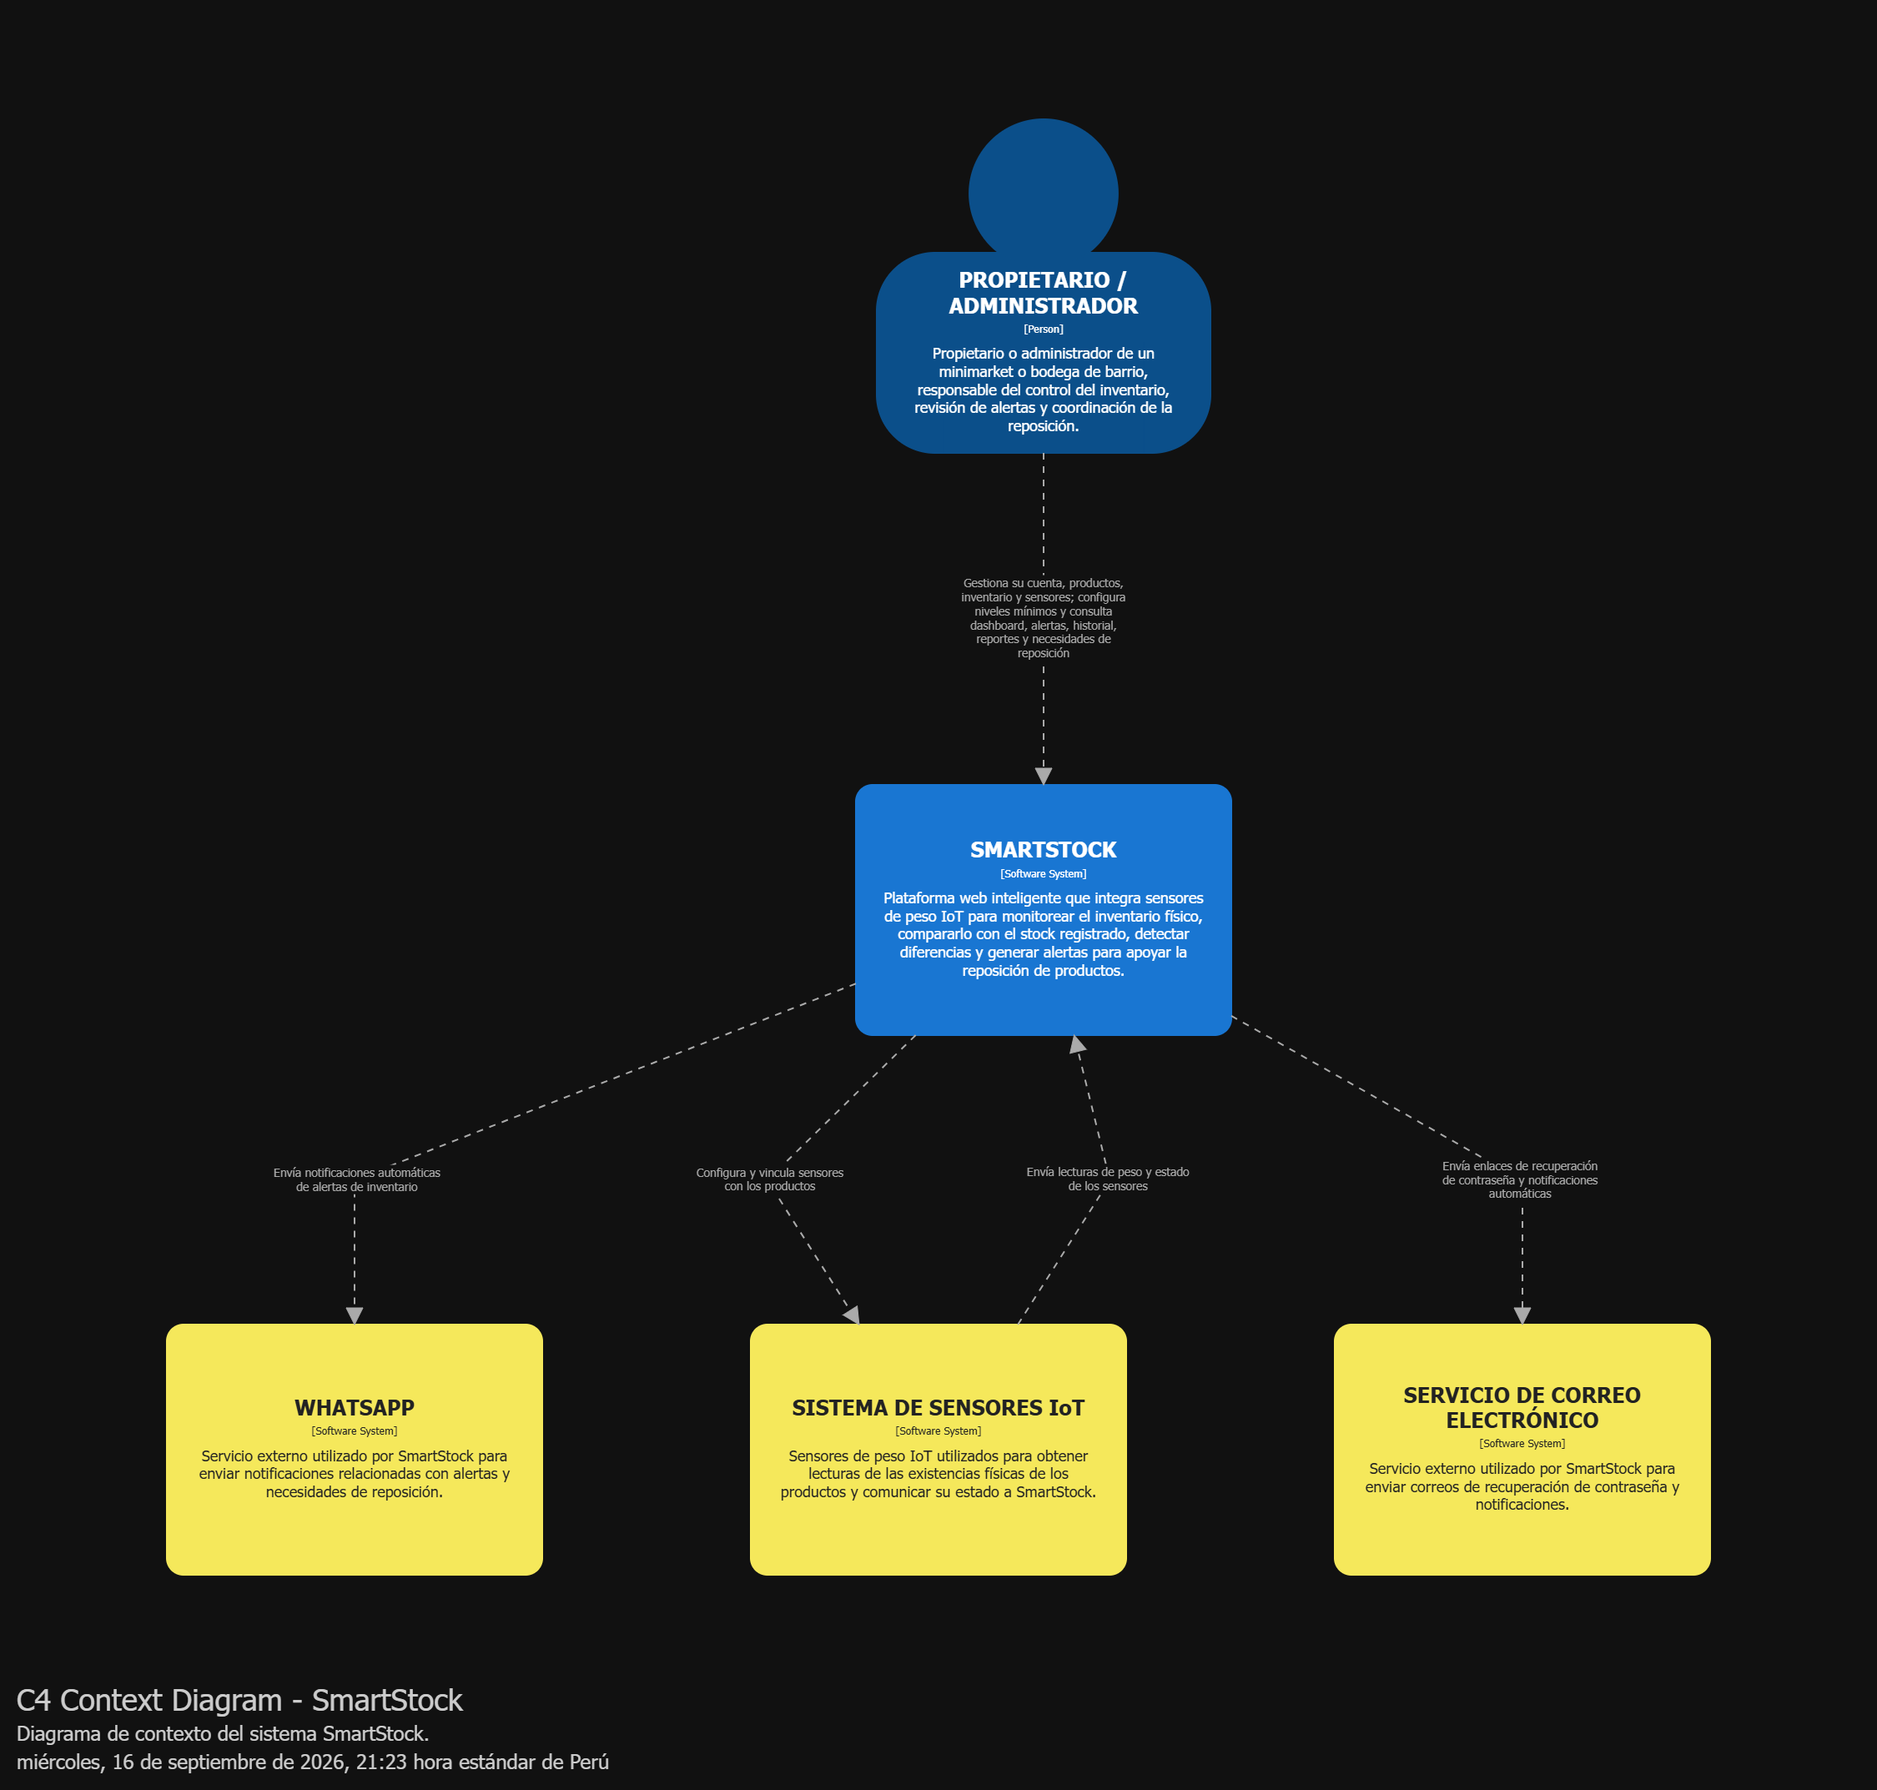
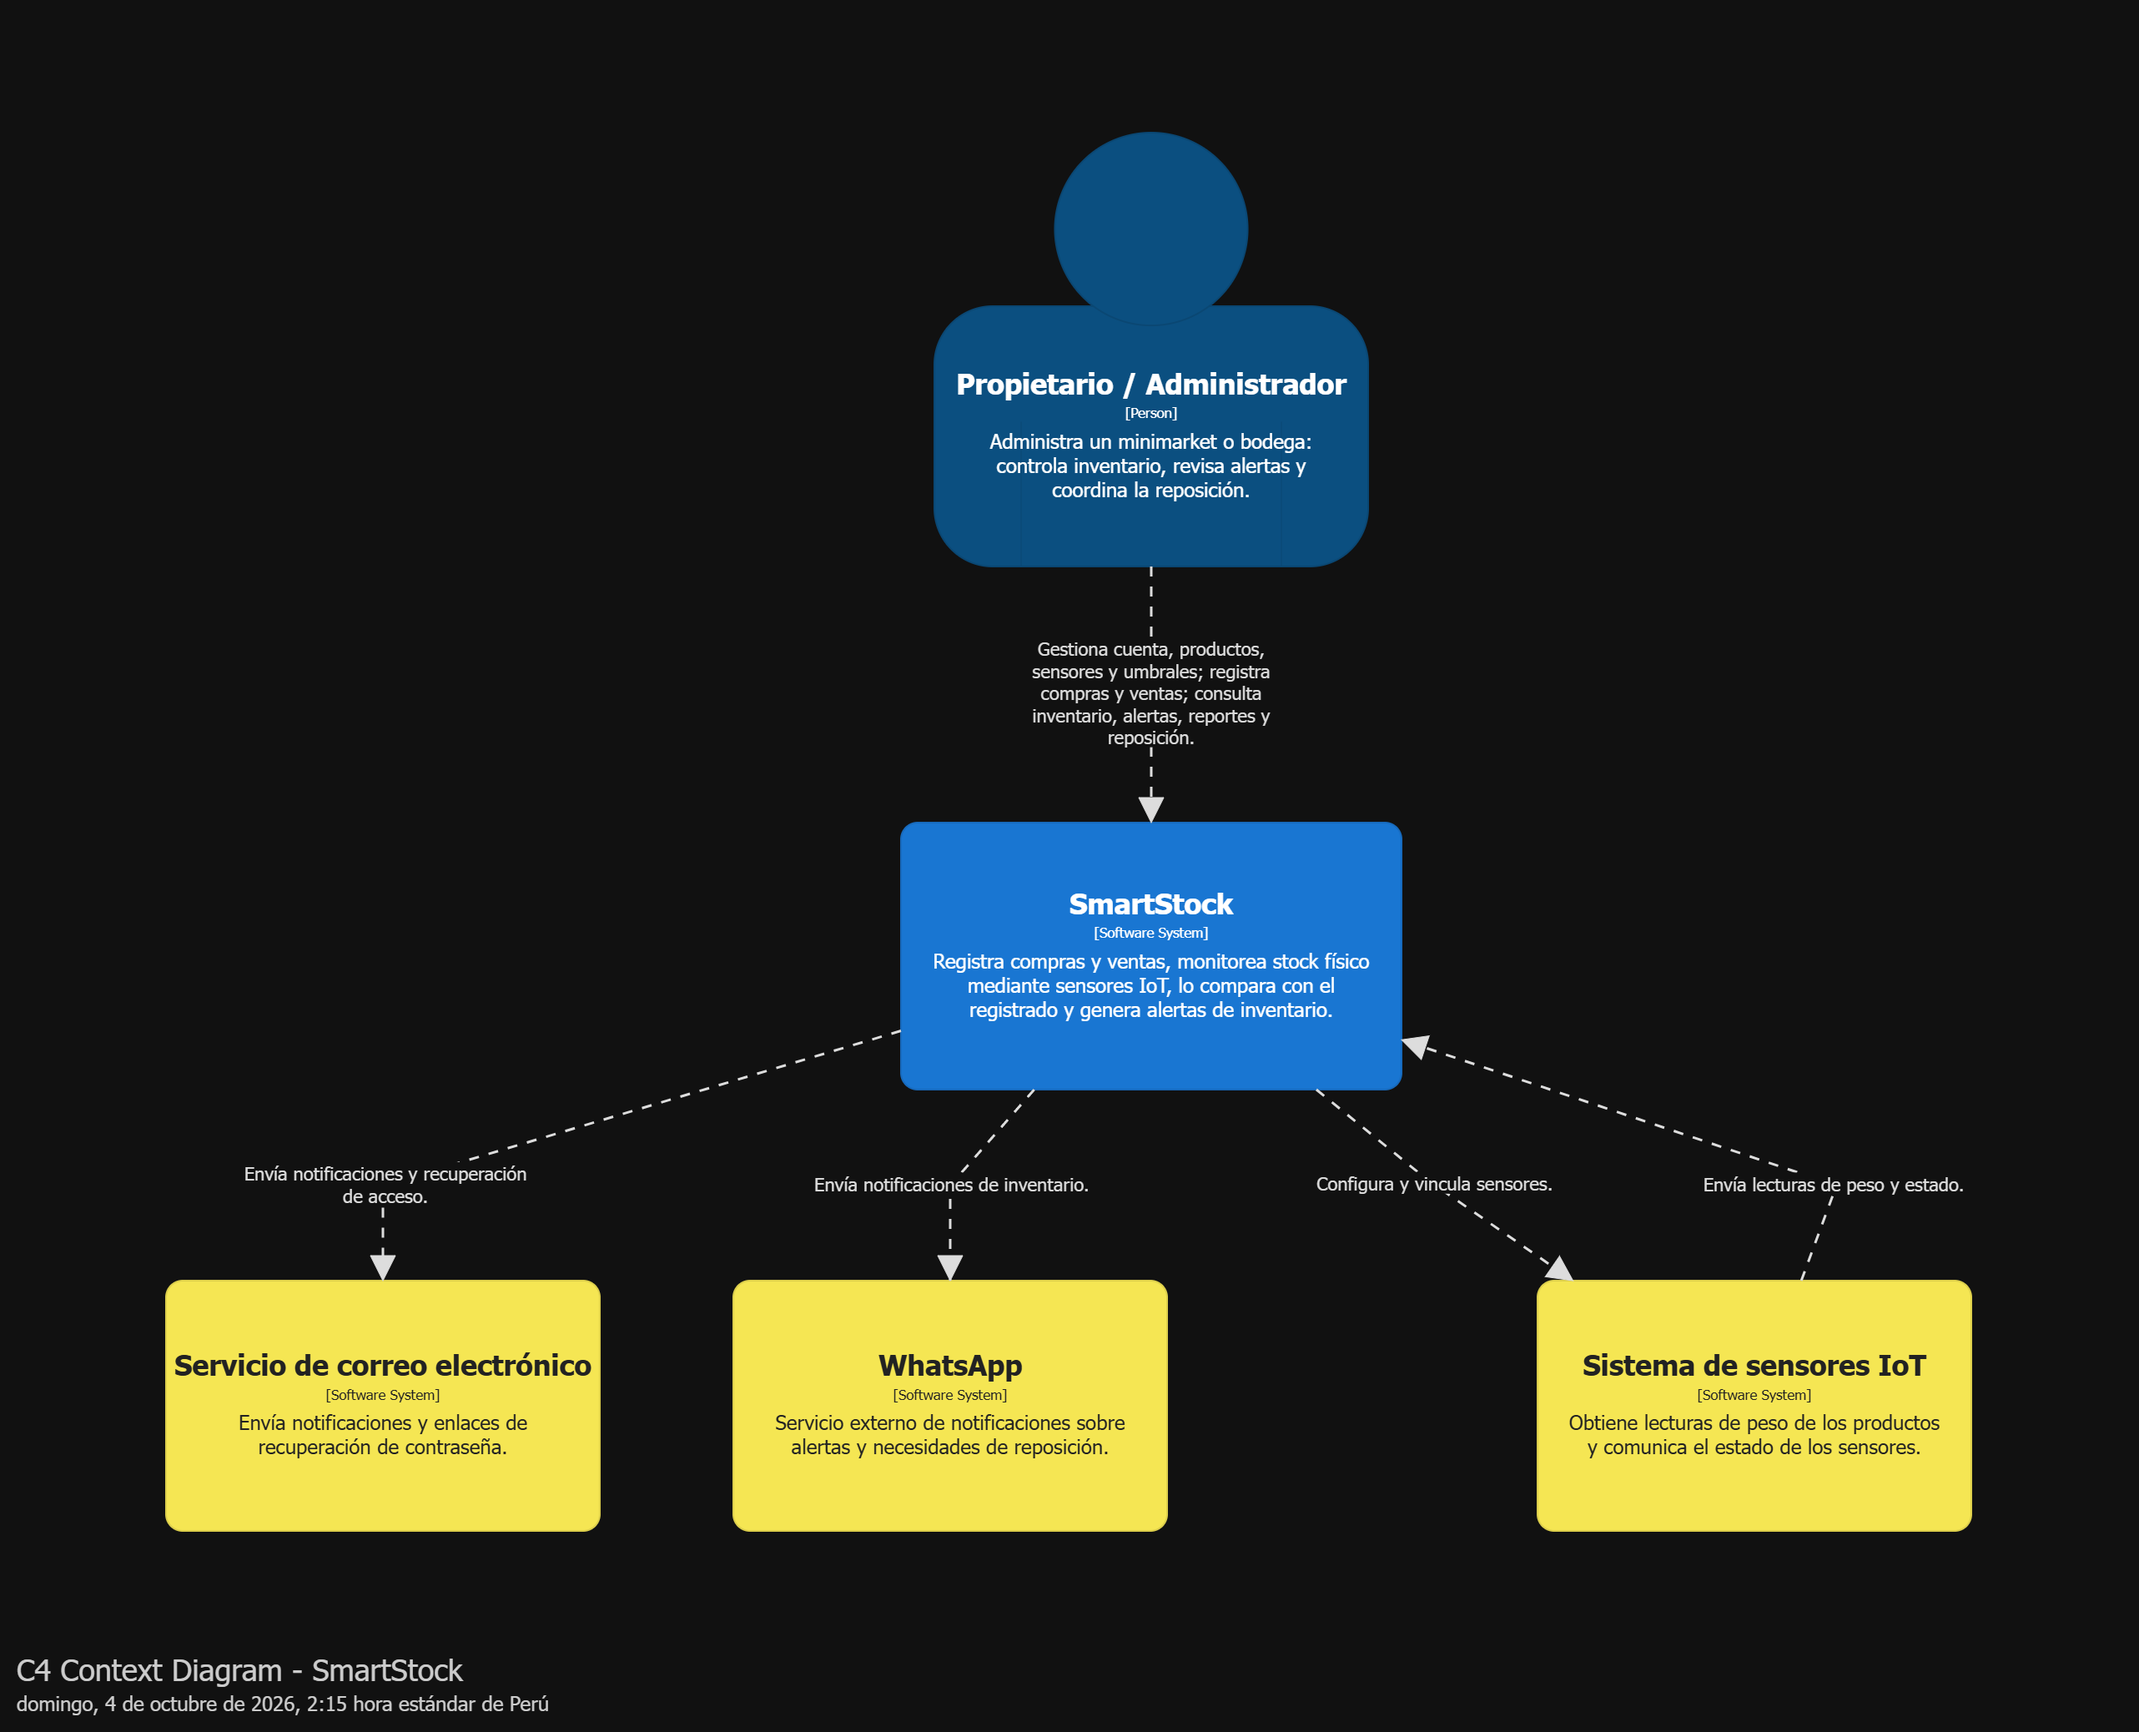
docs(architecture): update c4 context and container diagrams

diff --git a/docs/08-chapter-4.md b/docs/08-chapter-4.md
@@ -835,11 +835,17 @@ https://miro.com/welcomeonboard/WXlEQy9hRngvZnRPQkVlR3pJMDN5M25TTmpLSUY1Rk1kckJO
 
 ### 4.6.2. Software Architecture Context Diagram
 
+El diagrama de contexto presenta la relación del propietario o administrador con SmartStock para gestionar el inventario, registrar compras y ventas y consultar alertas y reportes. También muestra la integración con los sensores IoT, que envían lecturas de peso y estado, y con los servicios externos de WhatsApp y correo electrónico para las notificaciones.
+
 ![C4 Context Diagram](../assets/chapter-4/c4contextdiagram.png)
 
 **Figura 68. C4 Context Diagram.**
 
 ### 4.6.3. Software Architecture Container Diagrams
+
+SmartStock adopta una arquitectura de monolito modular: una sola aplicación backend en Spring Boot, organizada en seis módulos correspondientes a los bounded contexts. Esta decisión separa las responsabilidades del dominio y permite un único despliegue del backend, reduciendo la complejidad para el alcance del proyecto. La Landing Page presenta el producto y dirige al frontend Angular, que consulta la API para realizar las operaciones del negocio. El backend ejecuta las reglas y persiste la información mediante Spring Data JPA en MySQL.
+
+Angular permite organizar la interfaz por contexto y reutilizar componentes; Spring Boot facilita la implementación de los servicios web y Spring Data JPA el acceso a los datos. Los sensores IoT envían lecturas de peso y estado al backend para verificar el inventario físico. Las ventas descuentan el stock registrado y las compras lo aumentan al confirmar su recepción, dejando movimientos de inventario. El backend solicita las notificaciones a los servicios externos de correo electrónico y WhatsApp. Este diagrama representa la arquitectura prevista para el backend real del Sprint 3; en el Sprint 2, el frontend utiliza una Fake API.
 
 ![C4 Container Diagram](../assets/chapter-4/c4containerdiagram.png)
 
